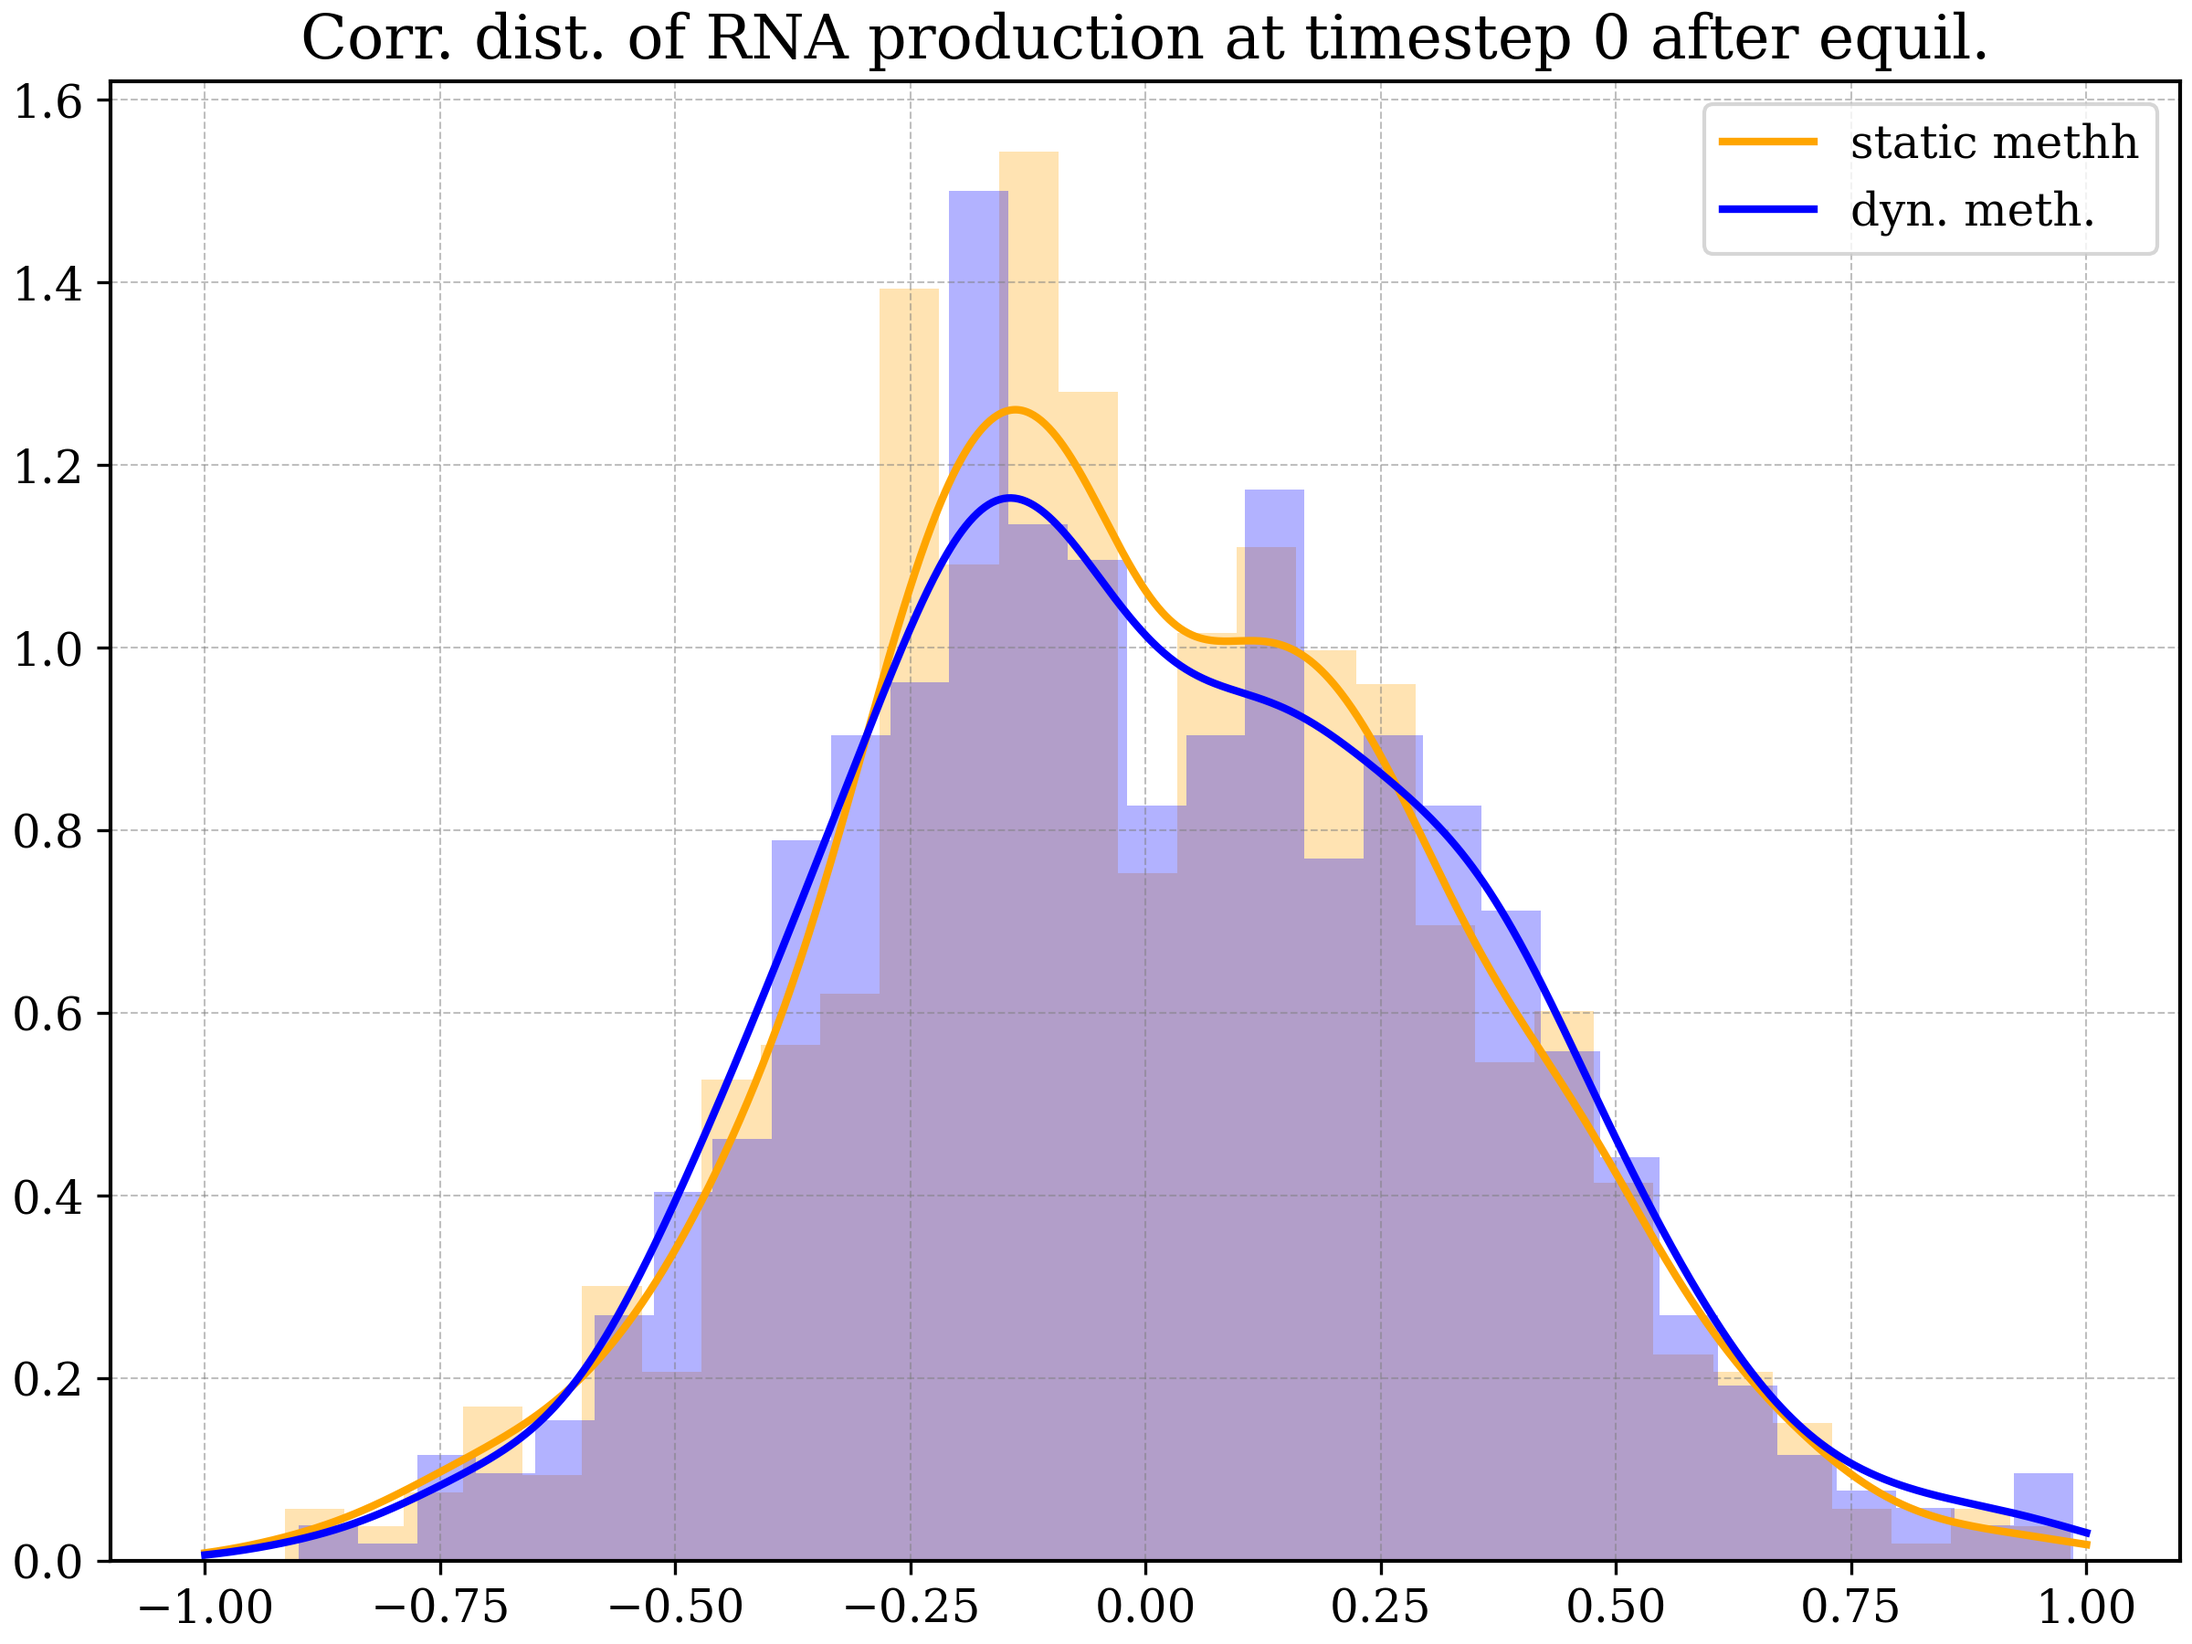
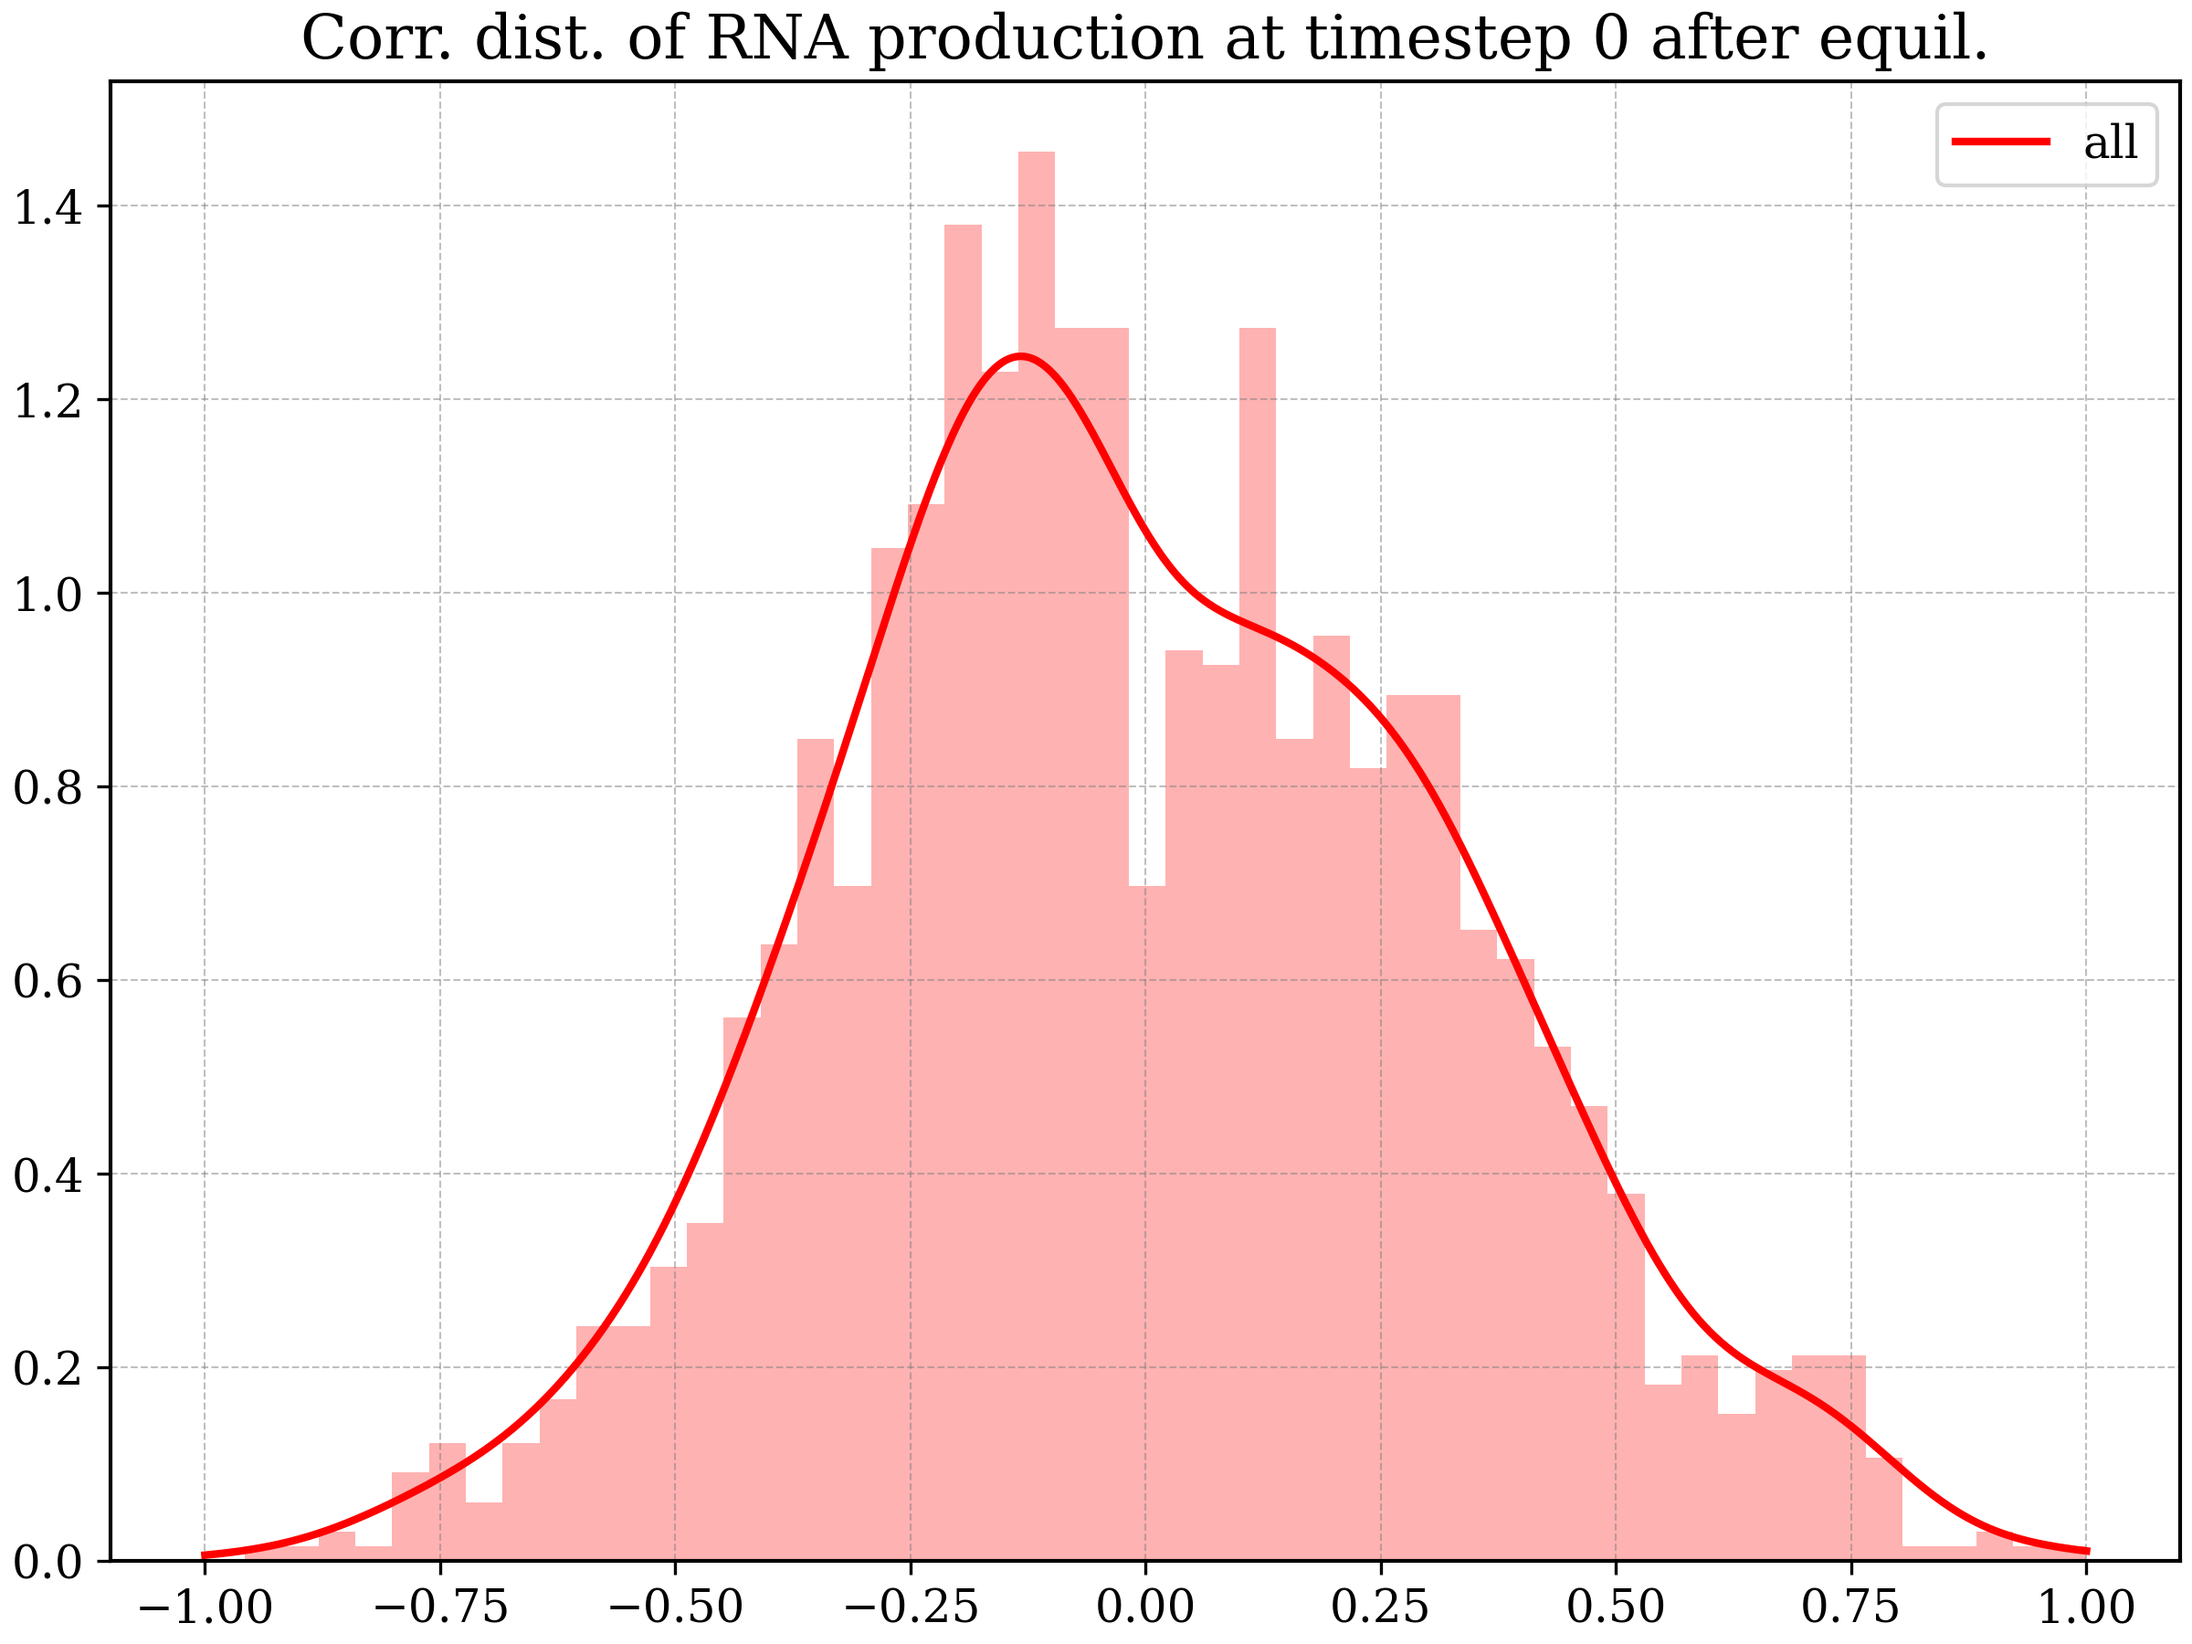
half time window, double as well

diff --git a/utils/simulation.py b/utils/simulation.py
@@ -124,7 +124,7 @@ class simulation:
         rate = min(tf_probs, m_on, m_off)
         equil = int(np.log(0.01)/np.log(1-rate))   #determine equil based on highest rate, set 0.01 as fixed, can be changed
 
-        timewindow = 2            #with respect to equil
+        timewindow = 1            #with respect to equil
 
         corrx = np.array([0 for i in range(int(self.timesteps-(1+timewindow)*equil))])
 
